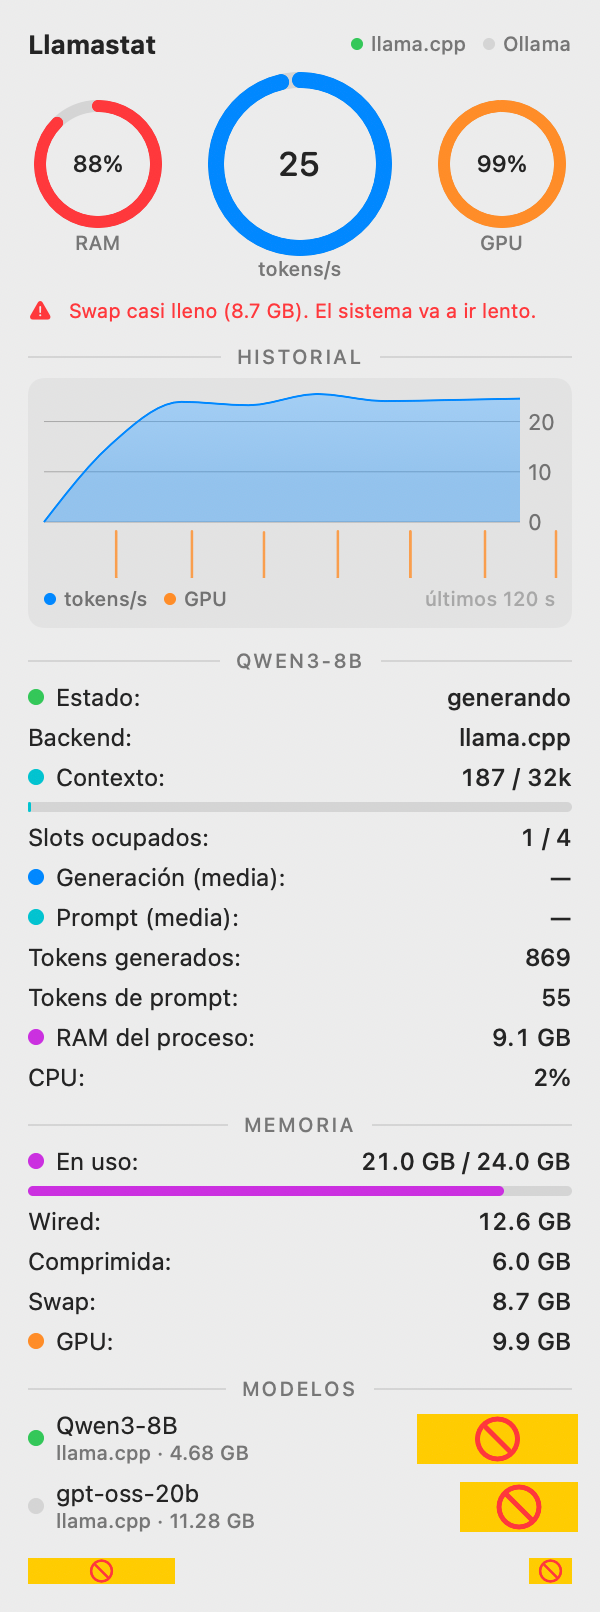
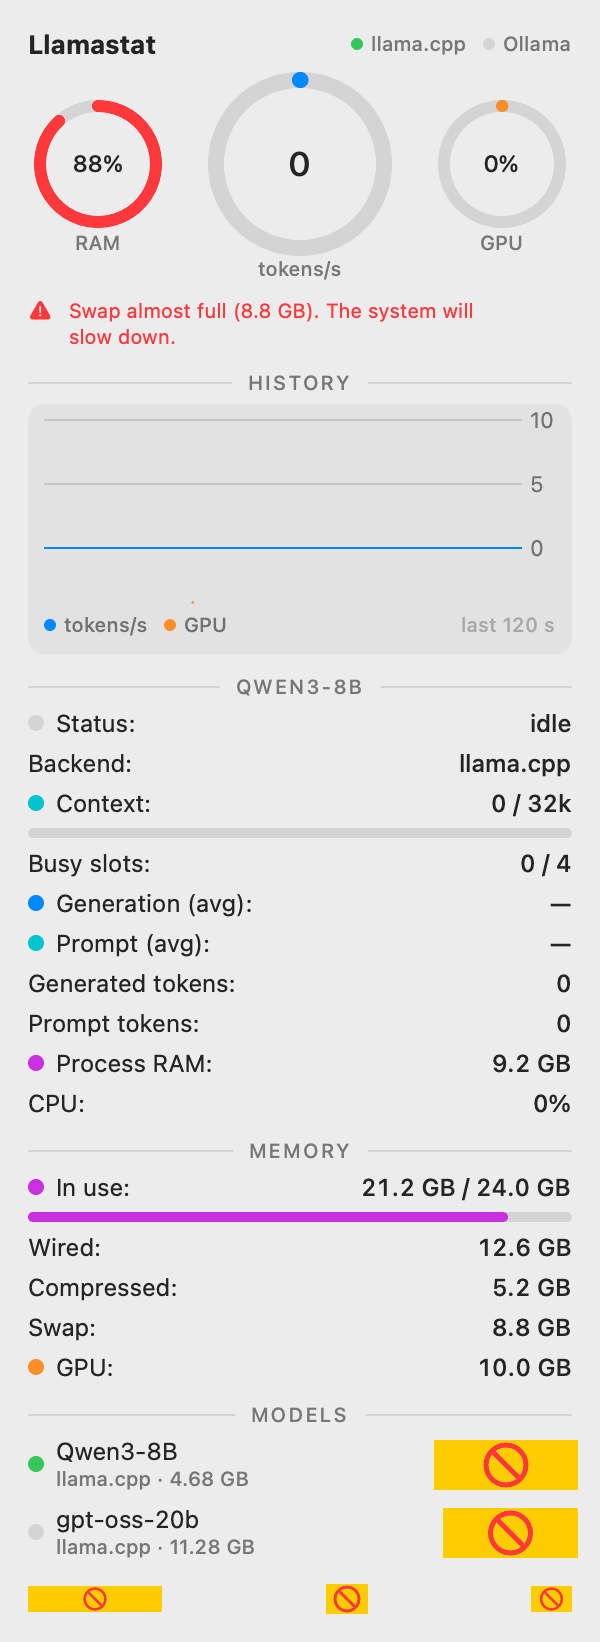
Multi-idioma (en/es) con selector en la app; Cargar/Expulsar en vez de Descargar

diff --git a/Sources/Llamastat/Views/PopoverView.swift b/Sources/Llamastat/Views/PopoverView.swift
@@ -9,15 +9,15 @@ struct PopoverView: View {
             header
             rings
             warnings
-            SectionHeader(title: "Historial")
+            SectionHeader(title: "History")
             HistoryChart(history: monitor.history)
             ForEach(monitor.active) { model in
-                SectionHeader(title: Format.shortName(model.info.name))
+                SectionHeader(verbatim: Format.shortName(model.info.name))
                 ModelDetails(model: model)
             }
-            SectionHeader(title: "Memoria")
+            SectionHeader(title: "Memory")
             memoryDetails
-            SectionHeader(title: "Modelos")
+            SectionHeader(title: "Models")
             ModelList()
             footer
         }
@@ -27,12 +27,12 @@ struct PopoverView: View {
 
     private var header: some View {
         HStack {
-            Text("Llamastat").font(.headline)
+            Text(verbatim: "Llamastat").font(.headline)
             Spacer()
             ForEach(monitor.backends, id: \.kind) { backend in
                 HStack(spacing: 4) {
                     Circle().fill(backend.online ? Color.green : Palette.track).frame(width: 6, height: 6)
-                    Text(backend.kind.rawValue).font(.caption2).foregroundStyle(.secondary)
+                    Text(verbatim: backend.kind.rawValue).font(.caption2).foregroundStyle(.secondary)
                 }
             }
         }
@@ -57,23 +57,23 @@ struct PopoverView: View {
 
     @ViewBuilder private var warnings: some View {
         if monitor.multipleBackendsLoaded {
-            Warning(text: "Hay modelos cargados en más de un backend. Ojo con la RAM.")
+            Warning(text: Text("Models are loaded in more than one backend. Watch your RAM."))
         }
         if monitor.memory.swapTotal > 0, Double(monitor.memory.swapUsed) / Double(monitor.memory.swapTotal) > 0.8 {
-            Warning(text: "Swap casi lleno (\(Format.gigabytes(monitor.memory.swapUsed))). El sistema va a ir lento.")
+            Warning(text: Text("Swap almost full (\(Format.gigabytes(monitor.memory.swapUsed))). The system will slow down."))
         }
         if let error = monitor.lastError {
-            Warning(text: error)
+            Warning(text: Text(verbatim: error))
         }
     }
 
     private var memoryDetails: some View {
         let memory = monitor.memory
         return VStack(spacing: 5) {
-            DetailRow(color: Palette.memory, label: "En uso", value: "\(Format.gigabytes(memory.used)) / \(Format.gigabytes(memory.total))")
+            DetailRow(color: Palette.memory, label: "In use", value: "\(Format.gigabytes(memory.used)) / \(Format.gigabytes(memory.total))")
             UsageBar(fraction: memory.usedFraction, color: Palette.memory)
             DetailRow(color: nil, label: "Wired", value: Format.gigabytes(memory.wired))
-            DetailRow(color: nil, label: "Comprimida", value: Format.gigabytes(memory.compressed))
+            DetailRow(color: nil, label: "Compressed", value: Format.gigabytes(memory.compressed))
             DetailRow(color: nil, label: "Swap", value: Format.gigabytes(memory.swapUsed))
             if let gpuMemory = monitor.gpu?.memoryInUse {
                 DetailRow(color: Palette.gpu, label: "GPU", value: Format.gigabytes(gpuMemory))
@@ -83,9 +83,11 @@ struct PopoverView: View {
 
     private var footer: some View {
         HStack {
-            Button("Reiniciar router") { monitor.restartRouter() }
+            Button("Restart router") { monitor.restartRouter() }
             Spacer()
-            Button("Salir") { NSApplication.shared.terminate(nil) }
+            LanguageMenu()
+            Spacer()
+            Button("Quit") { NSApplication.shared.terminate(nil) }
         }
         .buttonStyle(.borderless)
         .font(.caption)
@@ -94,9 +96,9 @@ struct PopoverView: View {
 }
 
 private struct Warning: View {
-    var text: String
+    var text: Text
     var body: some View {
-        Label(text, systemImage: "exclamationmark.triangle.fill")
+        Label { text } icon: { Image(systemName: "exclamationmark.triangle.fill") }
             .font(.caption)
             .foregroundStyle(Palette.warning)
             .padding(.top, 8)
@@ -135,7 +137,7 @@ struct HistoryChart: View {
                 Legend(color: Palette.generation, text: "tokens/s")
                 Legend(color: Palette.gpu, text: "GPU")
                 Spacer()
-                Text("últimos \(Monitor.historyLength) s").font(.caption2).foregroundStyle(.tertiary)
+                Text("last \(Monitor.historyLength) s").font(.caption2).foregroundStyle(.tertiary)
             }
         }
         .padding(8)
@@ -145,7 +147,7 @@ struct HistoryChart: View {
 
 private struct Legend: View {
     var color: Color
-    var text: String
+    var text: LocalizedStringKey
     var body: some View {
         HStack(spacing: 4) {
             Circle().fill(color).frame(width: 6, height: 6)
@@ -160,35 +162,35 @@ struct ModelDetails: View {
     var body: some View {
         let stats = model.stats
         VStack(spacing: 5) {
-            DetailRow(color: model.isBusy ? .green : Palette.track, label: "Estado",
-                      value: model.isBusy ? "generando" : "en espera")
+            DetailRow(color: model.isBusy ? .green : Palette.track, label: "Status",
+                      value: model.isBusy ? String(localized: "generating") : String(localized: "idle"))
             DetailRow(color: nil, label: "Backend", value: model.info.backend.rawValue)
             if let size = stats.contextSize {
                 let used = stats.contextUsed ?? 0
-                DetailRow(color: Palette.prompt, label: "Contexto",
+                DetailRow(color: Palette.prompt, label: "Context",
                           value: "\(Format.count(Double(used))) / \(Format.context(size))")
                 UsageBar(fraction: Double(used) / Double(max(size, 1)), color: Palette.prompt)
             }
             if stats.slotsTotal > 0 {
-                DetailRow(color: nil, label: "Slots ocupados", value: "\(stats.slotsBusy) / \(stats.slotsTotal)")
+                DetailRow(color: nil, label: "Busy slots", value: "\(stats.slotsBusy) / \(stats.slotsTotal)")
             }
             if model.info.backend == .llamaCpp {
-                DetailRow(color: Palette.generation, label: "Generación (media)", value: Format.rate(stats.predictedTokensPerSecond))
-                DetailRow(color: Palette.prompt, label: "Prompt (media)", value: Format.rate(stats.promptTokensPerSecond))
-                DetailRow(color: nil, label: "Tokens generados", value: Format.count(stats.generatedTokens))
-                DetailRow(color: nil, label: "Tokens de prompt", value: Format.count(stats.promptTokensTotal))
+                DetailRow(color: Palette.generation, label: "Generation (avg)", value: Format.rate(stats.predictedTokensPerSecond))
+                DetailRow(color: Palette.prompt, label: "Prompt (avg)", value: Format.rate(stats.promptTokensPerSecond))
+                DetailRow(color: nil, label: "Generated tokens", value: Format.count(stats.generatedTokens))
+                DetailRow(color: nil, label: "Prompt tokens", value: Format.count(stats.promptTokensTotal))
             }
             if let vram = stats.vramBytes {
                 DetailRow(color: Palette.gpu, label: "VRAM", value: Format.bytes(vram))
             }
             if let process = model.process {
-                DetailRow(color: Palette.memory, label: "RAM del proceso", value: Format.gigabytes(max(process.residentBytes, process.footprintBytes)))
+                DetailRow(color: Palette.memory, label: "Process RAM", value: Format.gigabytes(max(process.residentBytes, process.footprintBytes)))
             }
             if let cpu = model.cpu {
                 DetailRow(color: nil, label: "CPU", value: Format.percent(cpu))
             }
             if let expires = stats.expiresAt {
-                DetailRow(color: nil, label: "Se descarga", value: expires.formatted(.relative(presentation: .named)))
+                DetailRow(color: nil, label: "Unloads", value: expires.formatted(.relative(presentation: .named)))
             }
         }
     }
@@ -200,7 +202,7 @@ struct ModelList: View {
     var body: some View {
         VStack(spacing: 6) {
             if monitor.allModels.isEmpty {
-                Text(monitor.onlineBackends.isEmpty ? "Ningún backend responde" : "Sin modelos")
+                Text(monitor.onlineBackends.isEmpty ? "No backend is responding" : "No models")
                     .font(.caption).foregroundStyle(.secondary)
             }
             ForEach(monitor.allModels) { model in
@@ -209,16 +211,23 @@ struct ModelList: View {
                         .fill(model.state == .loaded ? Color.green : model.state == .loading ? Color.yellow : Palette.track)
                         .frame(width: 8, height: 8)
                     VStack(alignment: .leading, spacing: 0) {
-                        Text(model.name).font(.system(size: 12)).lineLimit(1)
-                        Text("\(model.backend.rawValue) · \(Format.bytes(model.sizeBytes))")
+                        Text(verbatim: model.name).font(.system(size: 12)).lineLimit(1)
+                        Text(verbatim: "\(model.backend.rawValue) · \(Format.bytes(model.sizeBytes))")
                             .font(.caption2).foregroundStyle(.secondary)
                     }
                     Spacer()
                     if monitor.pending.contains(model.id) || model.state == .loading {
                         ProgressView().controlSize(.small)
                     } else {
-                        Button(model.state == .unloaded ? "Cargar" : "Descargar") { monitor.toggle(model) }
-                            .controlSize(.small)
+                        Button { monitor.toggle(model) } label: {
+                            if model.state == .unloaded {
+                                Label("Load", systemImage: "play.fill")
+                            } else {
+                                Label("Eject", systemImage: "eject.fill")
+                            }
+                        }
+                        .controlSize(.small)
+                        .help(model.state == .unloaded ? "Load the model into memory" : "Free the memory used by the model")
                     }
                 }
             }

diff --git a/Sources/Llamastat/Views/Components.swift b/Sources/Llamastat/Views/Components.swift
@@ -14,7 +14,7 @@ struct Ring: View {
     var fraction: Double
     var color: Color
     var label: String
-    var caption: String
+    var caption: LocalizedStringKey
     var size: CGFloat = 64
     var lineWidth: CGFloat = 6
 
@@ -27,7 +27,7 @@ struct Ring: View {
                     .stroke(color, style: StrokeStyle(lineWidth: lineWidth, lineCap: .round))
                     .rotationEffect(.degrees(-90))
                     .animation(.easeOut(duration: 0.4), value: fraction)
-                Text(label)
+                Text(verbatim: label)
                     .font(.system(size: size * 0.2, weight: .medium, design: .rounded))
                     .monospacedDigit()
                     .minimumScaleFactor(0.6)
@@ -41,11 +41,15 @@ struct Ring: View {
 
 /// Centered small-caps divider: ─── TITLE ───
 struct SectionHeader: View {
-    var title: String
+    var title: Text
+    init(title: LocalizedStringKey) { self.title = Text(title) }
+    init(verbatim: String) { self.title = Text(verbatim: verbatim) }
+
     var body: some View {
         HStack(spacing: 8) {
             line
-            Text(title.uppercased())
+            title
+                .textCase(.uppercase)
                 .font(.system(size: 10, weight: .medium))
                 .tracking(1)
                 .foregroundStyle(.secondary)
@@ -60,7 +64,7 @@ struct SectionHeader: View {
 
 struct DetailRow: View {
     var color: Color?
-    var label: String
+    var label: LocalizedStringKey
     var value: String
 
     var body: some View {
@@ -68,7 +72,7 @@ struct DetailRow: View {
             if let color {
                 Circle().fill(color).frame(width: 8, height: 8)
             }
-            Text(label + ":")
+            Text(label) + Text(verbatim: ":")
             Spacer()
             Text(value).monospacedDigit().fontWeight(.medium)
         }

diff --git a/Sources/Llamastat/Views/LanguageMenu.swift b/Sources/Llamastat/Views/LanguageMenu.swift
@@ -1,0 +1,52 @@
+import SwiftUI
+
+/// Per-app language override. macOS reads `AppleLanguages` from the app's defaults at launch,
+/// so changing it needs a relaunch.
+struct LanguageMenu: View {
+    private static let options: [(code: String?, name: String)] = [
+        (nil, String(localized: "System")),
+        ("en", "English"),
+        ("es", "Español"),
+    ]
+
+    private var current: String? {
+        UserDefaults.standard.persistentDomain(forName: Bundle.main.bundleIdentifier ?? "")?["AppleLanguages"]
+            .flatMap { ($0 as? [String])?.first }
+    }
+
+    var body: some View {
+        Menu {
+            ForEach(Self.options, id: \.name) { option in
+                Button {
+                    select(option.code)
+                } label: {
+                    if option.code == current {
+                        Label(option.name, systemImage: "checkmark")
+                    } else {
+                        Text(verbatim: option.name)
+                    }
+                }
+            }
+        } label: {
+            Image(systemName: "globe")
+        }
+        .menuStyle(.borderlessButton)
+        .menuIndicator(.hidden)
+        .fixedSize()
+        .help("Language")
+    }
+
+    private func select(_ code: String?) {
+        guard code != current else { return }
+        if let code {
+            UserDefaults.standard.set([code], forKey: "AppleLanguages")
+        } else {
+            UserDefaults.standard.removeObject(forKey: "AppleLanguages")
+        }
+        let relaunch = Process()
+        relaunch.executableURL = URL(fileURLWithPath: "/bin/sh")
+        relaunch.arguments = ["-c", "sleep 0.5; /usr/bin/open \"$0\"", Bundle.main.bundlePath]
+        try? relaunch.run()
+        NSApplication.shared.terminate(nil)
+    }
+}

diff --git a/README.md b/README.md
@@ -33,7 +33,9 @@ Requiere macOS 14+ y Xcode (los macros de SwiftUI no vienen en Command Line Tool
 ./scripts/build-app.sh --install  # copia a ~/Applications y la abre
 ```
 
-`Llamastat --snapshot out.png` renderiza el popover a una imagen tras ~8 s de muestreo.
+`Llamastat --snapshot out.png` renderiza el popover a una imagen tras ~8 s de muestreo (`-AppleLanguages "(es)"` para otro idioma).
+
+Idiomas: inglés y español. Sigue al sistema, o se elige con el globo 🌐 del popover. Traducciones en `Resources/<idioma>.lproj/Localizable.strings` (la clave es el texto en inglés).
 
 ## `stack/`: mi setup de llama.cpp
 
